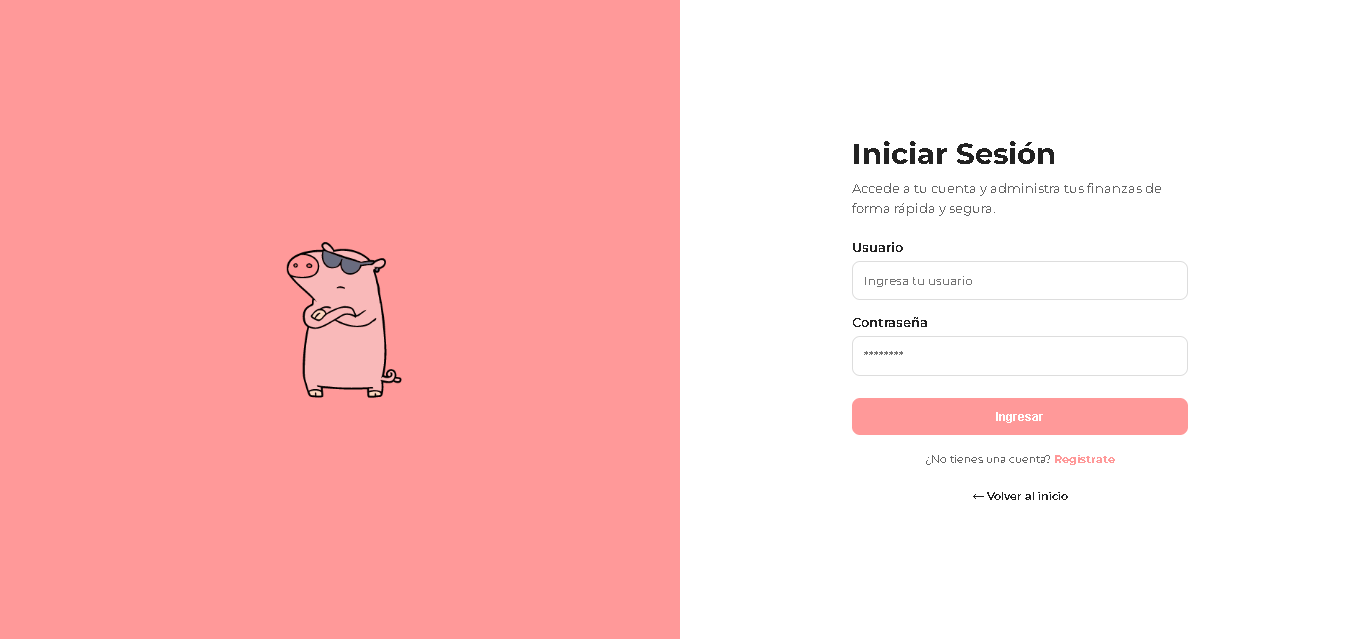
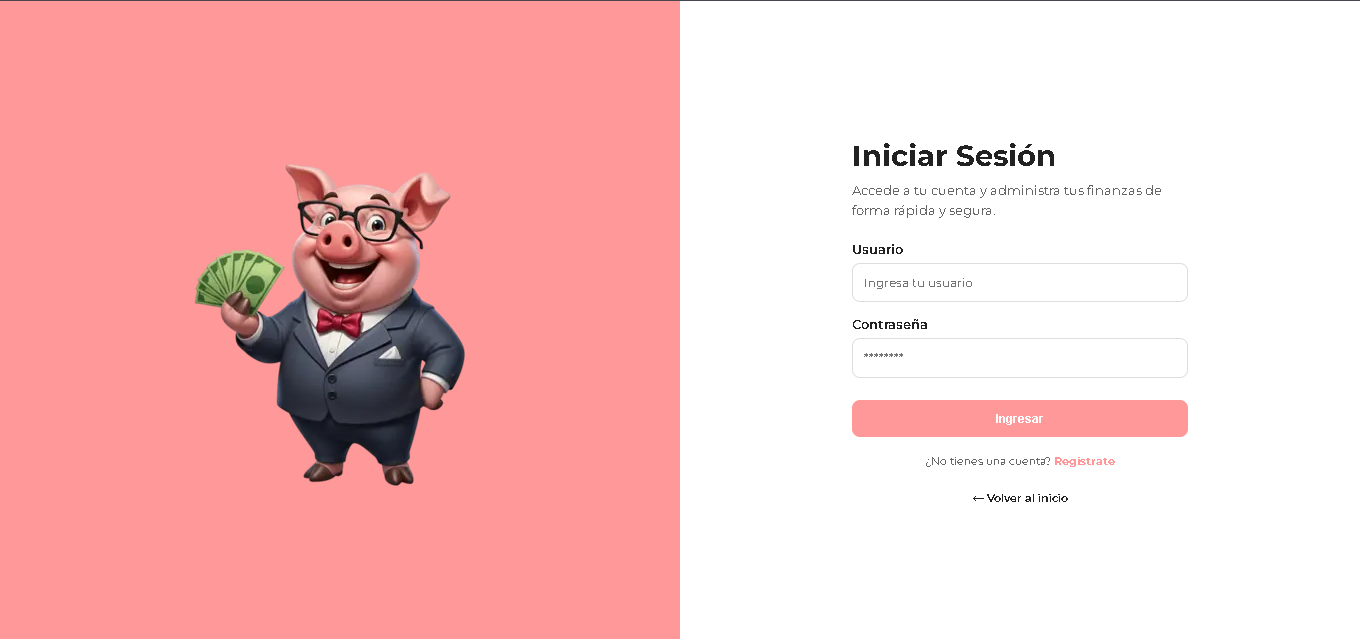
cambio: diseño y loader

diff --git a/src/loader/Loader.css b/src/loader/Loader.css
@@ -1,38 +1,139 @@
 #loader{
     position:fixed;
+
     top:0;
     left:0;
+
     width:100%;
     height:100vh;
+
     background:#ffffff;
+
     display:flex;
     justify-content:center;
     align-items:center;
+
     z-index:999999;
-    transition:opacity .5s ease;
+
+    transition:
+    opacity .5s ease,
+    visibility .5s ease;
 }
 
 .loader-content{
     display:flex;
     flex-direction:column;
+
     justify-content:center;
     align-items:center;
-    gap:20px;
+
+    gap:18px;
+
+    text-align:center;
 }
 
 .loader-content img{
-    width:150px;
+    width:180px;
     height:auto;
+
+    animation:float 2s ease-in-out infinite;
 }
 
 .loader-content h2{
     font-family:'Montserrat',sans-serif;
-    font-size:1.2rem;
-    font-weight:600;
+
+    font-size:1rem;
+    font-weight:700;
+
     color:#222;
+
+    letter-spacing:2px;
+
+    text-transform:uppercase;
+}
+
+.loader-content h2::after{
+    content:"";
+    animation:dots 1.5s infinite;
 }
 
 .loader-hidden{
     opacity:0;
+    visibility:hidden;
     pointer-events:none;
+}
+
+
+.loader-line{
+    width:180px;
+    height:4px;
+
+    background:#ececec;
+
+    border-radius:50px;
+
+    overflow:hidden;
+}
+
+.loader-line::before{
+    content:"";
+
+    display:block;
+
+    width:40%;
+
+    height:100%;
+
+    background:#FF9999;
+
+    border-radius:50px;
+
+    animation:loading 1.5s infinite;
+}
+
+/* Animaciones */
+
+@keyframes float{
+
+    0%{
+        transform:translateY(0);
+    }
+
+    50%{
+        transform:translateY(-8px);
+    }
+
+    100%{
+        transform:translateY(0);
+    }
+}
+
+@keyframes loading{
+
+    0%{
+        transform:translateX(-100%);
+    }
+
+    100%{
+        transform:translateX(350%);
+    }
+}
+
+@keyframes dots{
+
+    0%{
+        content:"";
+    }
+
+    33%{
+        content:".";
+    }
+
+    66%{
+        content:"..";
+    }
+
+    100%{
+        content:"...";
+    }
 }